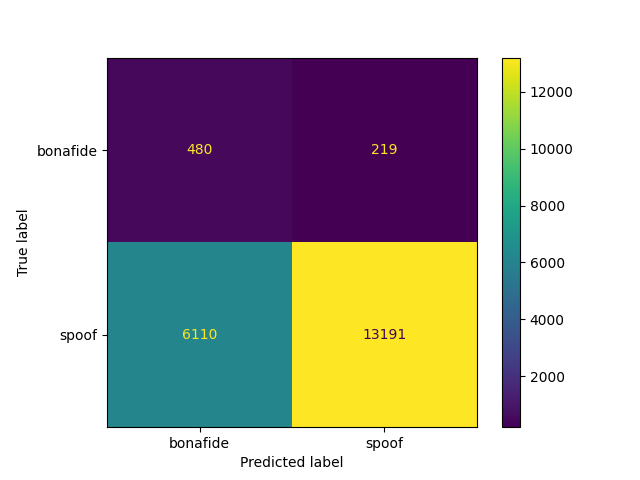
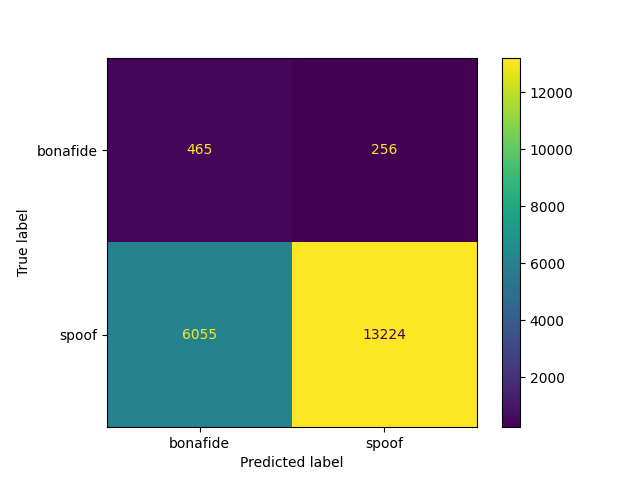
feat: added file means.yml for naive classifier

diff --git a/naive_classifier_mean.py b/naive_classifier_mean.py
@@ -13,6 +13,8 @@ PREC_INDEX = 2
 REC_INDEX = 3
 EER_INDEX = 4
 CM_DISPLAY_INDEX = 5
+M_S_INDEX = 6
+M_B_INDEX = 7
 
 
 def save_files(model: list, type: str) -> None:
@@ -31,6 +33,14 @@ def save_files(model: list, type: str) -> None:
     }
     with open(model_path + '/metrics.yml', 'w') as f: 
         for key, value in metrics.items(): 
+            f.write('%s: %s\n' % (key, value))
+
+    means = {
+        "mean_spoof": model[M_S_INDEX],
+        "mean_bonafide": model[M_B_INDEX],
+    }
+    with open(model_path + '/means.yml', 'w') as f: 
+        for key, value in means.items(): 
             f.write('%s: %s\n' % (key, value))
 
     if type == 'mean':
@@ -112,8 +122,7 @@ for i in range(10):
     print('rec:', rec)
     print('prec:', prec)
 
-    #mod = [threshold, acc, acc_per_class, prec, rec, EER, cm_display]
-    mod = [acc, acc_per_class, prec, rec, EER, cm_display]
+    mod = [acc, acc_per_class, prec, rec, EER, cm_display, mean_spoof, mean_bonafide]
     naive_models.append(mod)
 
 

diff --git a/report.md b/report.md
@@ -118,12 +118,12 @@ Come prima gli esperimenti sono stati condotti prima con una situazione non bila
 #### Situazione non bilanciata
 | Model                         | EER       | Accuracy   | Accuracy per class | Precision | Recall     |
 |-------------------------------|-----------|------------|--------------------|-----------|------------|
-| **Naive_mean**                |0.1614     |0.6771      |0.6692              |0.0752     |0.6606      |
+| **Naive_mean**                |0.1594     |0.6812      |0.6786              |0.0811     |0.6758      |
 | **Naive_th**                  |0.0175     |0.965       |0.5012              |0.1667     |0.0029      |
 #### Situazione bilanciata
 | Model                         | EER       | Accuracy   | Accuracy per class | Precision | Recall     |
 |-------------------------------|-----------|------------|--------------------|-----------|------------|
-| **Naive_mean**                |0.1674     |0.6651      |0.6651              |0.6701     |0.6503      |
+| **Naive_mean**                |0.1668     |0.6664      |0.6664              |0.6731     |0.6473      |
 | **Naive_th**                  |0.1628     |0.6744      |0.6744              |0.7448     |0.5308      |
 
 #### Conclusioni sulla creazione dei modelli
